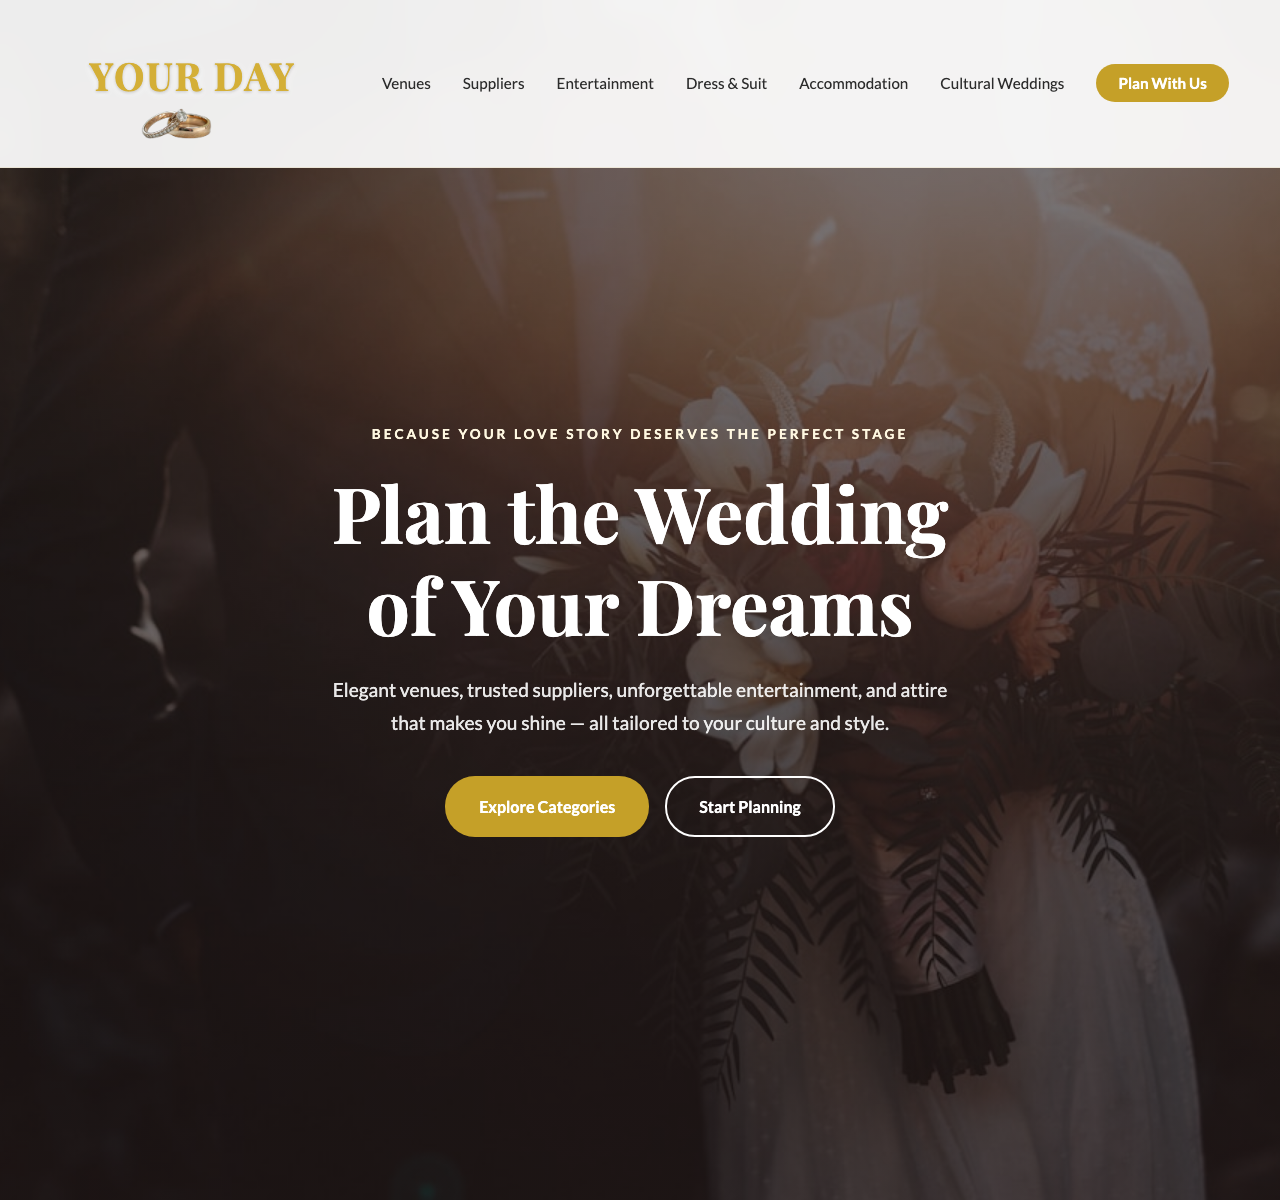
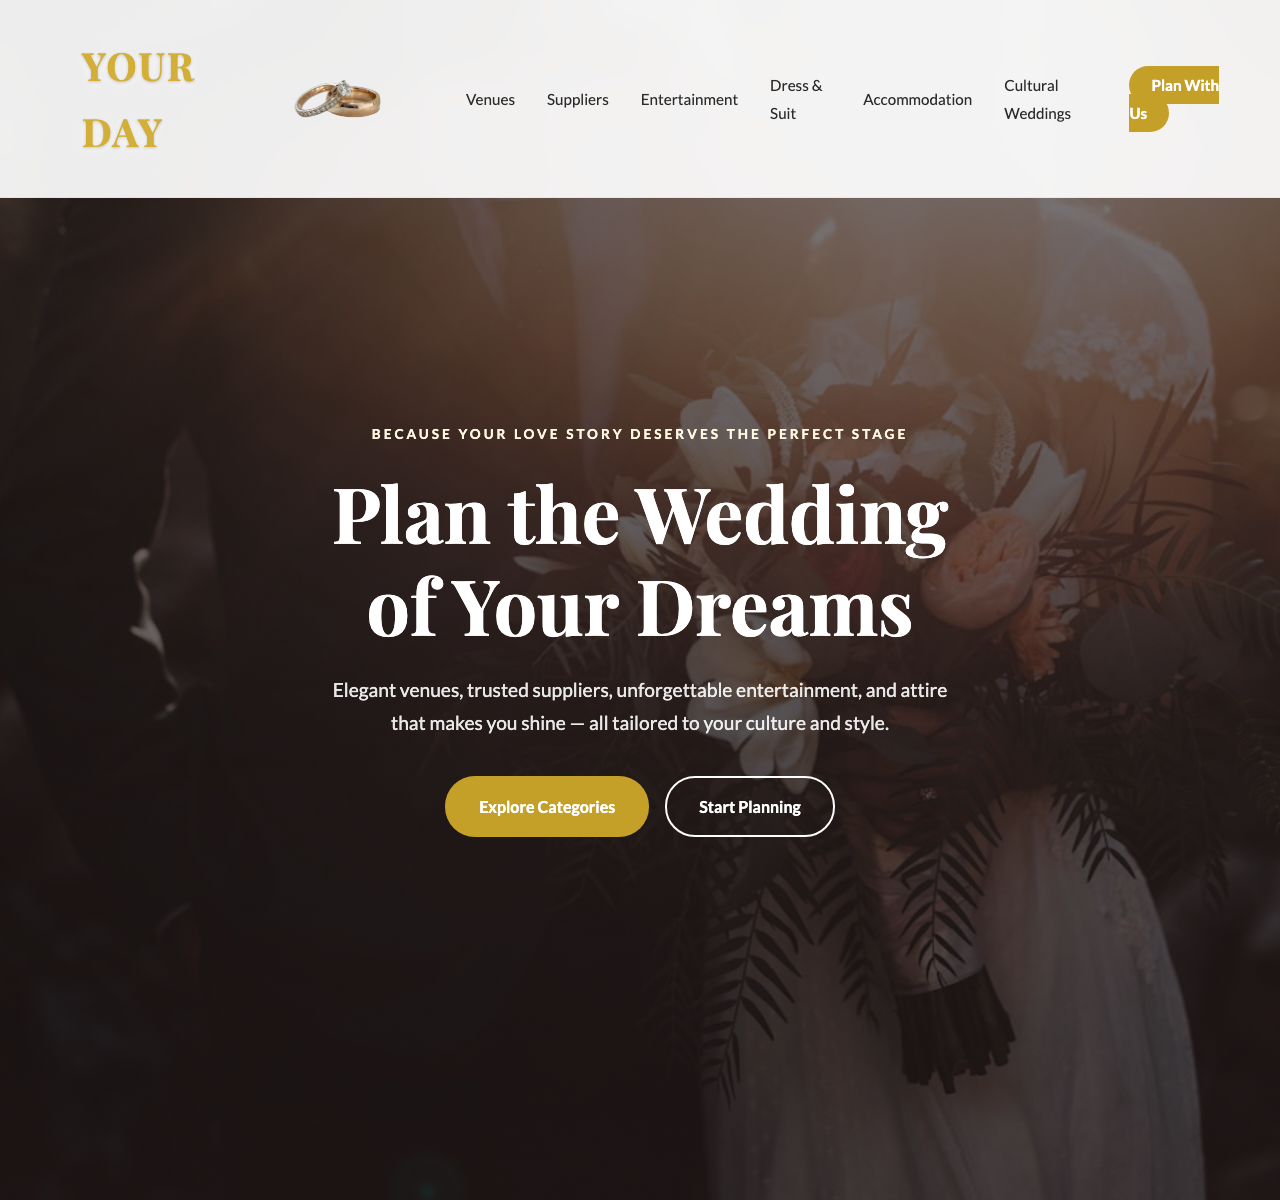
Bigger rings next to YOUR DAY

Changed region(s): [[0.0, 0.0308, 1.0, 0.185]]

diff --git a/index.html b/index.html
@@ -7,12 +7,12 @@
   <link rel="preconnect" href="https://fonts.googleapis.com">
   <link rel="preconnect" href="https://fonts.gstatic.com" crossorigin>
   <link href="https://fonts.googleapis.com/css2?family=Playfair+Display:ital,wght@0,400;0,600;0,700;1,400&family=Lato:wght@300;400;700&display=swap" rel="stylesheet">
-  <link rel="stylesheet" href="styles.css?v=8">
+  <link rel="stylesheet" href="styles.css?v=9">
 </head>
 <body>
   <nav class="navbar">
     <div class="container nav-container">
-      <a href="#" class="logo"><span class="logo-rings"></span><span class="logo-text">YOUR DAY</span></a>
+      <a href="#" class="logo"><span class="logo-text">YOUR DAY</span><span class="logo-rings"></span></a>
       <button class="nav-toggle" aria-label="Toggle navigation">
         <span></span><span></span><span></span>
       </button>
@@ -290,7 +290,7 @@
   <footer class="footer">
     <div class="container footer-grid">
       <div class="footer-brand">
-        <a href="#" class="logo"><span class="logo-rings"></span><span class="logo-text">YOUR DAY</span></a>
+        <a href="#" class="logo"><span class="logo-text">YOUR DAY</span><span class="logo-rings"></span></a>
         <p>Making wedding planning simple, elegant, and unforgettable.</p>
       </div>
       <div class="footer-links">

diff --git a/styles.css b/styles.css
@@ -114,22 +114,19 @@ img {
   position: relative;
   display: inline-flex;
   align-items: center;
-  justify-content: center;
-  padding: 0.6em 1em 1em 1em;
-  min-width: 7em;
-  min-height: 3.4em;
+  justify-content: flex-start;
+  gap: 0.35em;
+  padding: 0.4em 0.8em;
   transition: var(--transition);
   text-shadow: 0 2px 10px rgba(255, 255, 255, 0.8), 0 1px 3px rgba(0, 0, 0, 0.25);
 }
 
 .logo-rings {
-  position: absolute;
-  bottom: -0.2em;
-  left: 50%;
-  transform: translateX(-50%);
-  width: 5em;
-  height: 1.7em;
-  background-image: url('images/user-rings.png?v=1');
+  position: static;
+  transform: none;
+  width: 4.5em;
+  height: 2.3em;
+  background-image: url('images/user-rings.png?v=2');
   background-size: contain;
   background-position: center;
   background-repeat: no-repeat;
